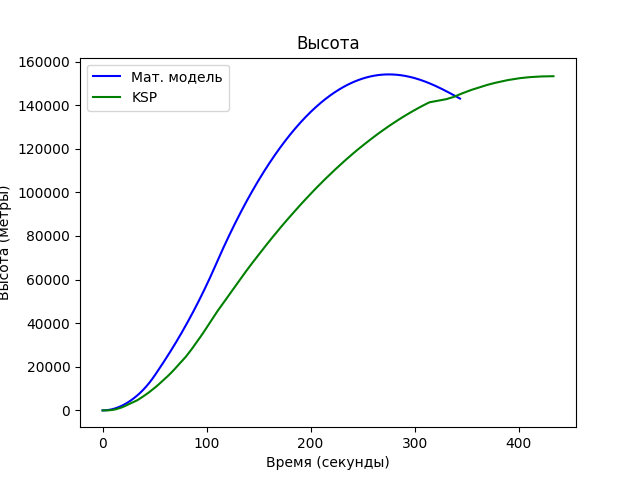
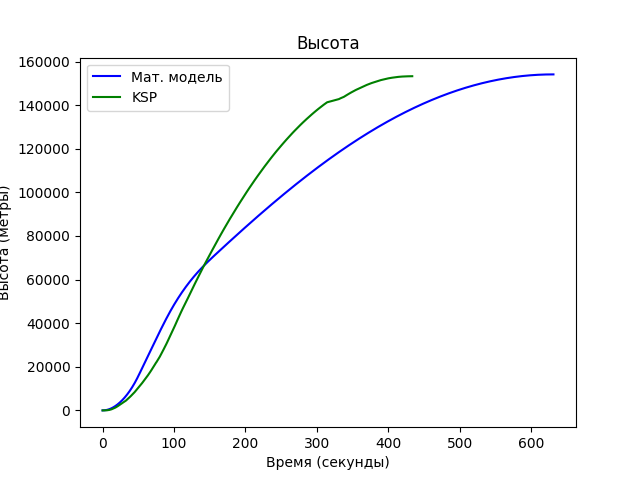
ideal model

diff --git a/ideal.py b/ideal.py
@@ -1,4 +1,4 @@
-from math import e, sqrt, sin, cos, atan, pi, radians
+from math import e, sqrt, sin, cos, atan, degrees, pi
 from decimal import Decimal, getcontext
 import csv
 
@@ -94,16 +94,27 @@ while True:
     else:
         a = 3.14 + atan(r_x / r_y)
 
-    if h < 1000:
-        fi = radians(180)
+    if not blocked:
+        fi = pi + a - b
 
-    if 1000 <= h <= 45_000:
-        fi = radians(90 * (89_000 - h) / 44_000)
+    if 89 <= degrees(fi) <= 91:
+        blocked = True
+        b = pi + a - fi
 
-    if h > 45_000:
-        fi = radians(90)
-
-    b = pi + a - fi
+    if not blocked:
+        if V_y + V_otn * sin(a) > 0:
+            if degrees(atan((V_x - V_otn * cos(a)) / (V_y + V_otn * sin(a)))) <= 3 and angle:
+                b = 3.14 / 60
+            elif q > 600 and degrees(atan((V_x - V_otn * cos(a)) / (V_y + V_otn * sin(a)))) > 3 and angle:
+                b = atan((V_x - V_otn * cos(a)) / (V_y + V_otn * sin(a)))
+            elif q < 600 and degrees(atan((V_x - V_otn * cos(a)) / (V_y + V_otn * sin(a)))) > 3 and p > p0 / 2 and angle:
+                b = atan((V_x - V_otn * cos(a)) / (V_y + V_otn * sin(a)))
+            elif q < 600 and degrees(atan(V_x / V_y)) > 3 and p < p0 / 2 and angle:
+                b = atan(V_x / V_y)
+            else:
+                ...
+        else:
+            b = 3.14 + atan((V_x - V_otn * cos(a)) / (V_y + V_otn * sin(a)))
 
     if t >= 50 and not mass_changed:
         m0 = m0 - 3120
@@ -130,7 +141,7 @@ while True:
         enabled = True
         change_mass = True
 
-    if enabled and V >= 2106.5:
+    if 2106.5 <= V:
         break
 
     V_x0, V_y0, r_x0, r_y0, m0 = V_x, V_y, r_x, r_y, m
@@ -164,7 +175,7 @@ plt.title('Масса')
 plt.xlabel('Время (секунды)')
 plt.ylabel('Масса (кг)')
 plt.legend()
-plt.savefig('mass.png')
+plt.savefig('mass_ideal.png')
 
 plt.close()
 
@@ -175,7 +186,7 @@ plt.title('Скорость')
 plt.xlabel('Время (секунды)')
 plt.ylabel('Скорость (м/с)')
 plt.legend()
-plt.savefig('speed.png')
+plt.savefig('speed_ideal.png')
 
 plt.close()
 
@@ -186,4 +197,4 @@ plt.title('Высота')
 plt.xlabel('Время (секунды)')
 plt.ylabel('Высота (метры)')
 plt.legend()
-plt.savefig('height.png')
+plt.savefig('height_ideal.png')

diff --git a/README.md b/README.md
@@ -1,2 +1,25 @@
  # Moscow Aviation Institute
  Coursework on the subject Introduction to Aviation
+
+ Моделирование траектории Спутника-1
+Состав команды
+Лизунов Егор - Тимлид, сбор данных и информации для проекта
+Крюков Антон - KSP, написание автопилота
+Иудин Егор - Программист, математик
+Юсупов Юсуп - Физик, технический специалист
+Ефимов Владимир - Математик, оформление отчета и презентации
+Программы
+Программы для автопилота написаны на языке Python с использованием библиотеки kRPC:
+     Программа для выведения н орбиту
+
+Цель проекта
+Смоделировать полёт советского спутника "Спутник-1" в игре Kerbal Space Program, а также произвести физические и математические расчеты.
+
+Задачи проекта
+1. Изучить историю полёта «Спутник-1», рассмотреть цели запуска, основные этапы миссии и её значение для развития космонавтики, а также проанализировать характеристики ракеты-носителя и параметры орбиты спутника.
+2. Спроектировать в Kerbal Space Program космический аппарат со спутником на борту, максимально приближённый к реальному аналогу, с учётом массы, компоновки, числа ступеней, характеристик двигателей и аэродинамики.
+3. Разработать физико-математическую модель полёта, учитывающую силы тяги, тяжести и сопротивления воздуха, изменение массы аппарата, а также влияние атмосферы и вращения планеты.
+4. Смоделировать полёт в Kerbal Space Program, выполнив запуск ракеты, выведение спутника на орбиту и отделение полезной нагрузки, зафиксировав основные параметры полёта.
+5. Реализовать вычисления по физико-математической модели программно (например, на Python), выполнить численное моделирование и построить графики изменения основных параметров во времени.
+6. Сравнить результаты моделирования в Kerbal Space Program и программной реализации, проанализировать различия и возможные причины расхождений.
+7. Составить итоговый отчёт с описанием теоретической части, процесса моделирования, полученных результатов и выводов.
